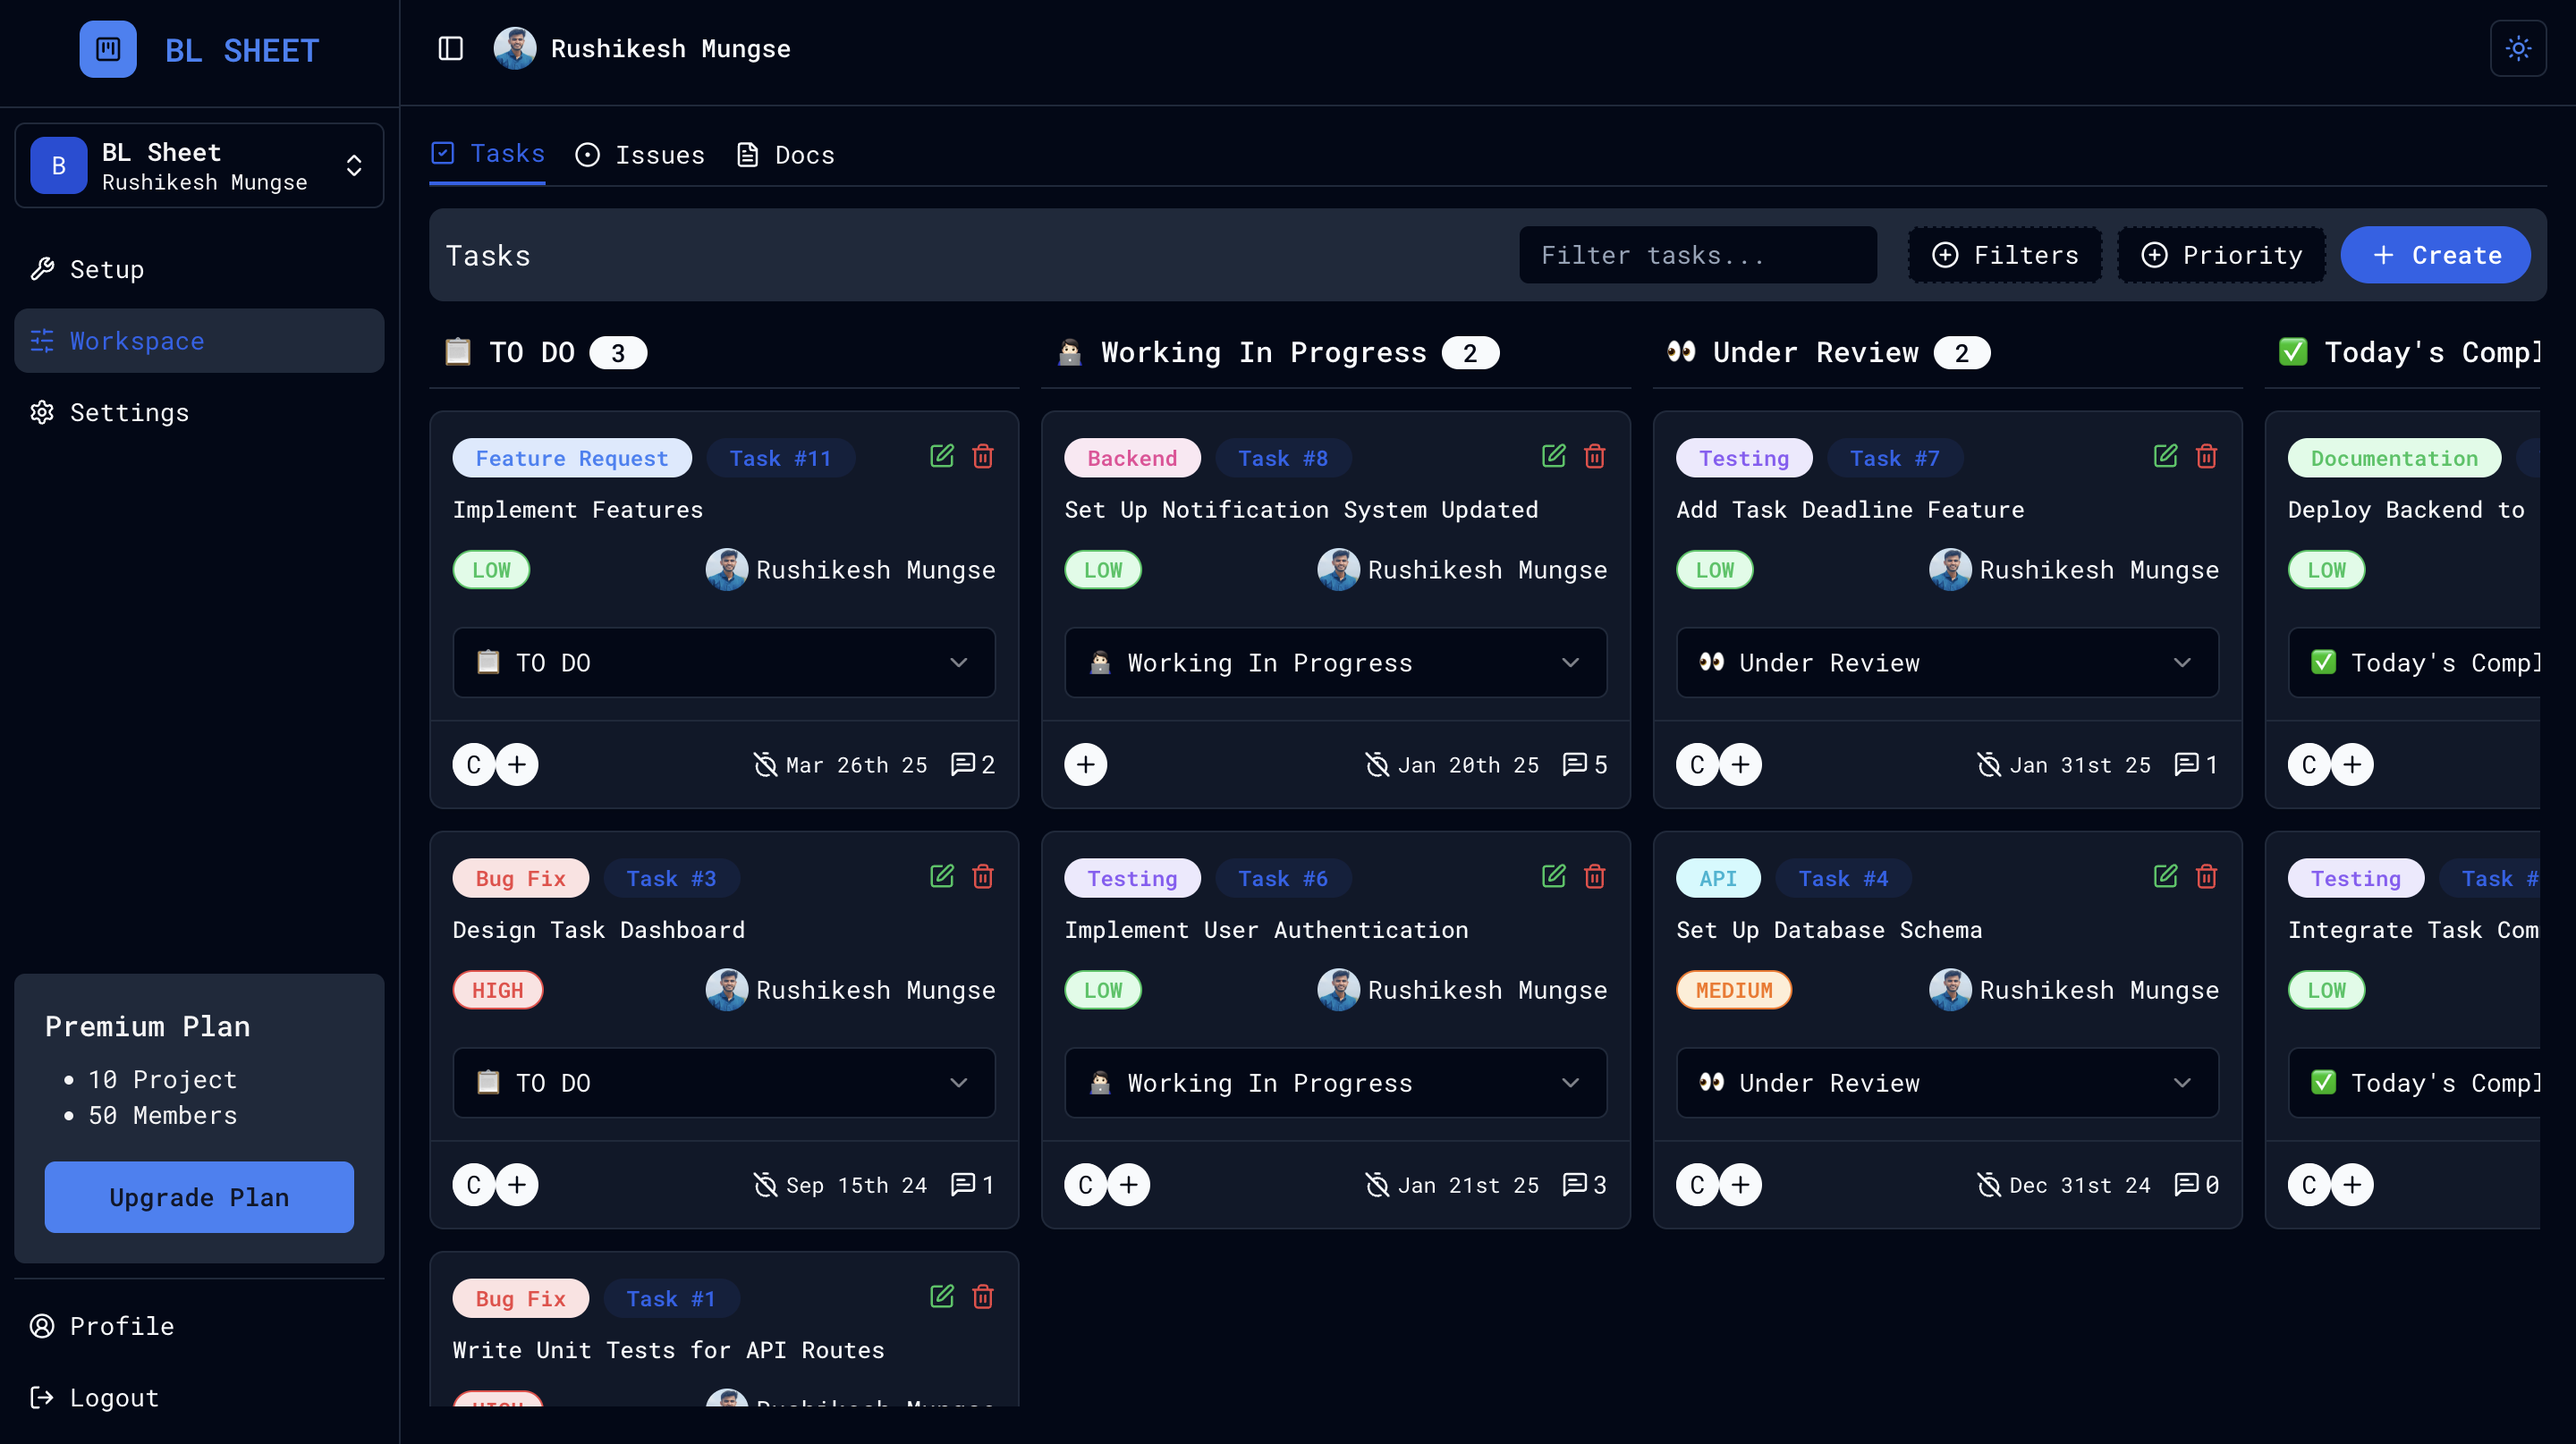
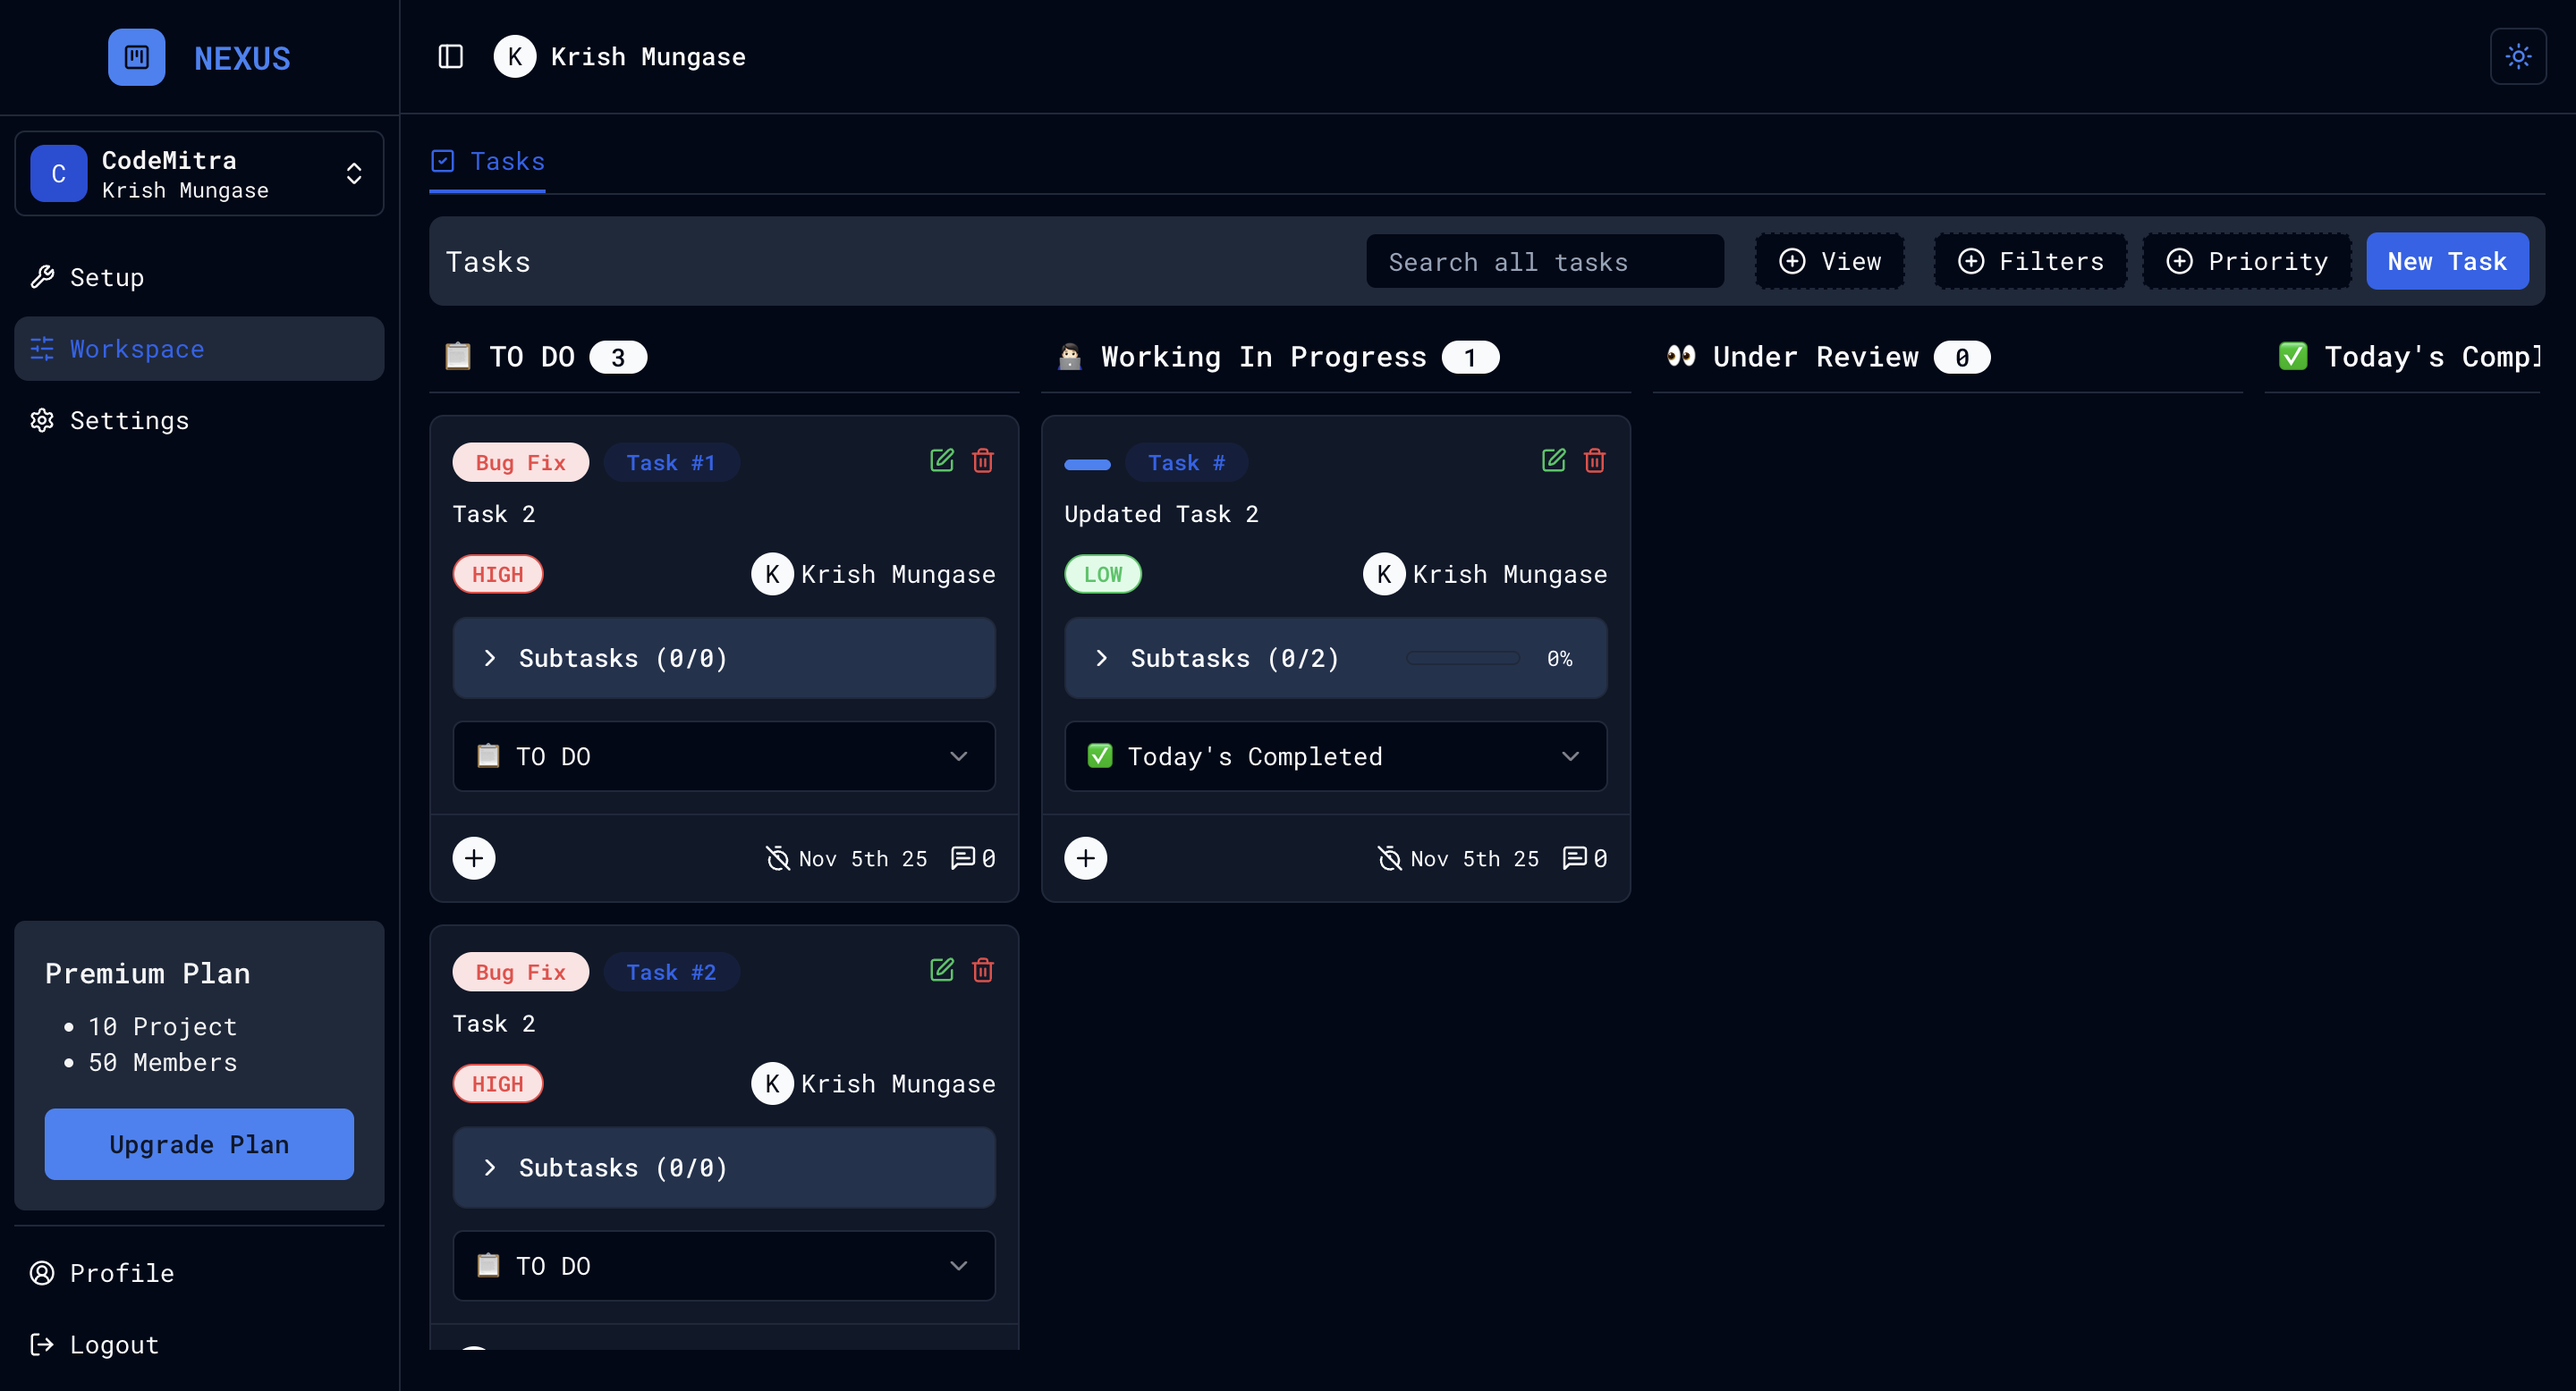
feat: named changed

diff --git a/src/types/index.ts b/src/types/index.ts
@@ -58,15 +58,15 @@ export interface User {
 }
 
 export enum MemberRole {
-  ADMIN = "Admin",
-  MEMBER = "Member",
-  OWNER = "Owner",
+  ADMIN = "ADMIN",
+  MEMBER = "MEMBER",
+  OWNER = "OWNER",
 }
 
 export enum InvitationStatus {
-  PENDING = "Pending",
-  ACCEPTED = "Accepted",
-  REJECTED = "Rejected",
+  PENDING = "PENDING",
+  ACCEPTED = "ACCEPTED",
+  REJECTED = "REJECTED",
 }
 
 export interface Member {
@@ -94,16 +94,16 @@ export interface Project {
 }
 
 export enum TaskStatus {
-  TODO = "Todo",
-  IN_PROGRESS = "In Progress",
-  UNDER_REVIEW = "Under Review",
-  COMPLETED = "Completed",
+  TODO = "TODO",
+  IN_PROGRESS = "IN_PROGRESS",
+  UNDER_REVIEW = "UNDER_REVIEW",
+  COMPLETED = "COMPLETED",
 }
 
 export enum TaskPriority {
-  LOW = "Low",
-  MEDIUM = "Medium",
-  HIGH = "High",
+  LOW = "LOW",
+  MEDIUM = "MEDIUM",
+  HIGH = "HIGH",
 }
 
 export interface Comment {
@@ -167,14 +167,14 @@ export interface Options {
 }
 
 export enum IssueStatus {
-  OPEN = "Open",
-  CLOSED = "Closed",
+  OPEN = "OPEN",
+  CLOSED = "CLOSED",
 }
 
 export enum IssuePriority {
-  LOW = "Low",
-  MEDIUM = "Medium",
-  HIGH = "High",
+  LOW = "LOW",
+  MEDIUM = "MEDIUM",
+  HIGH = "HIGH",
 }
 
 export interface Issue {

diff --git a/src/features/dashboard/projects/tasks/components/task-schema.ts b/src/features/dashboard/projects/tasks/components/task-schema.ts
@@ -10,11 +10,11 @@ export const taskShema = z.object({
       message: "Title must not be longer than 100 characters.",
     }),
   description: z.string(),
-  status: z.enum(["Todo", "In Progress", "Under Review", "Completed"], {
+  status: z.enum(["TODO", "IN_PROGRESS", "UNDER_REVIEW", "COMPLETED"], {
     message: "Status is invalid",
   }),
   taskType: z.string({ message: "Task type is required" }),
-  priority: z.enum(["Low", "Medium", "High"], {
+  priority: z.enum(["LOW", "MEDIUM", "HIGH"], {
     message: "Priority is invalid",
   }),
   dueDate: z.date({

diff --git a/src/features/home/components/hero.tsx b/src/features/home/components/hero.tsx
@@ -21,7 +21,7 @@ const Hero = () => {
         </h1>
 
         <p className="text-sm mt-2 text-muted-foreground text-center sm:text-start">
-          Taskifyis your ultimate tool for managing projects effortlessly.
+          Nexusis your ultimate tool for managing projects effortlessly.
         </p>
 
         <div className="hidden sm:flex flex-col sm:flex-row sm:items-center space-y-1 sm:space-y-0 sm:space-x-4 mt-4">

diff --git a/src/features/dashboard/projects/settings/general/components/update-project.tsx b/src/features/dashboard/projects/settings/general/components/update-project.tsx
@@ -84,7 +84,7 @@ const UpdateProject = ({ refetchProject, project }: UpdateProjectProps) => {
                     <FormLabel>Name</FormLabel>
                     <FormControl>
                       <Input
-                        placeholder="Taskify"
+                        placeholder="Nexus"
                         className="focus-visible:ring-1"
                         {...field}
                       />

diff --git a/src/features/dashboard/projects/chats/layouts/chat-layout.tsx b/src/features/dashboard/projects/chats/layouts/chat-layout.tsx
@@ -17,7 +17,7 @@ const ChatLayout = () => {
   return (
     <div>
       <div className="flex h-[calc(100vh_-100px)] border">
-        <ResizablePanelGroup direction="horizontal" autoSaveId="taskify-id">
+        <ResizablePanelGroup direction="horizontal" autoSaveId="Nexus-id">
           <ResizablePanel defaultSize={20} minSize={11} className="bg-muted/50">
             <Sidebar />
           </ResizablePanel>

diff --git a/src/constants/features.ts b/src/constants/features.ts
@@ -53,7 +53,7 @@ const FEATURES: FeatureType[] = [
     id: 6,
     title: "Comprehensive Reporting",
     description:
-      "Taskifygenerate customizable reports to get a complete overview of your financial health.",
+      "Nexusgenerate customizable reports to get a complete overview of your financial health.",
     Icon: FileChartColumnIcon,
     color: "text-purple-500",
   },

diff --git a/src/features/dashboard/projects/components/create-project.tsx b/src/features/dashboard/projects/components/create-project.tsx
@@ -78,7 +78,7 @@ const CreateProject = ({
                     <FormLabel>Name</FormLabel>
                     <FormControl>
                       <Input
-                        placeholder="Taskify"
+                        placeholder="Nexus"
                         className="focus-visible:ring-1"
                         {...field}
                       />

diff --git a/src/constants/index.ts b/src/constants/index.ts
@@ -192,7 +192,7 @@ const PricingPlans = [
     name: "Basic",
     title: "Free",
     description:
-      "Perfect for individuals and small teams getting started with Taskify.",
+      "Perfect for individuals and small teams getting started with Nexus.",
     features: PricingFeatures.basic,
     highlights: [
       "No credit card required",

diff --git a/index.html b/index.html
@@ -4,7 +4,7 @@
     <meta charset="UTF-8" />
     <link rel="icon" type="image/svg+xml" href="/logo.png" />
     <meta name="viewport" content="width=device-width, initial-scale=1.0" />
-    <title>Taskify</title>
+    <title>Nexus</title>
   </head>
   <body>
     <div id="root"></div>

diff --git a/src/features/guidance/verification.tsx b/src/features/guidance/verification.tsx
@@ -6,7 +6,7 @@ import { useUpdateDocumentTitle } from "@/hooks";
 
 const Verification = () => {
   useUpdateDocumentTitle({
-    title: "Verification - Taskify",
+    title: "Verification - Nexus",
   });
 
   const [searchParams] = useSearchParams();

diff --git a/src/features/auth/create-password/index.tsx b/src/features/auth/create-password/index.tsx
@@ -5,7 +5,7 @@ import CreatePasswordForm from "./components/create-password-form";
 
 const CreatePassword = () => {
   useUpdateDocumentTitle({
-    title: "Create Password - Taskify",
+    title: "Create Password - Nexus",
   });
 
   return (

diff --git a/src/features/auth/forgot-password/index.tsx b/src/features/auth/forgot-password/index.tsx
@@ -8,7 +8,7 @@ import ForgotPasswordForm from "./components/forgot-password-form";
 
 const ForgotPassword = () => {
   useUpdateDocumentTitle({
-    title: "Forgot Password - Taskify",
+    title: "Forgot Password - Nexus",
   });
 
   return (
